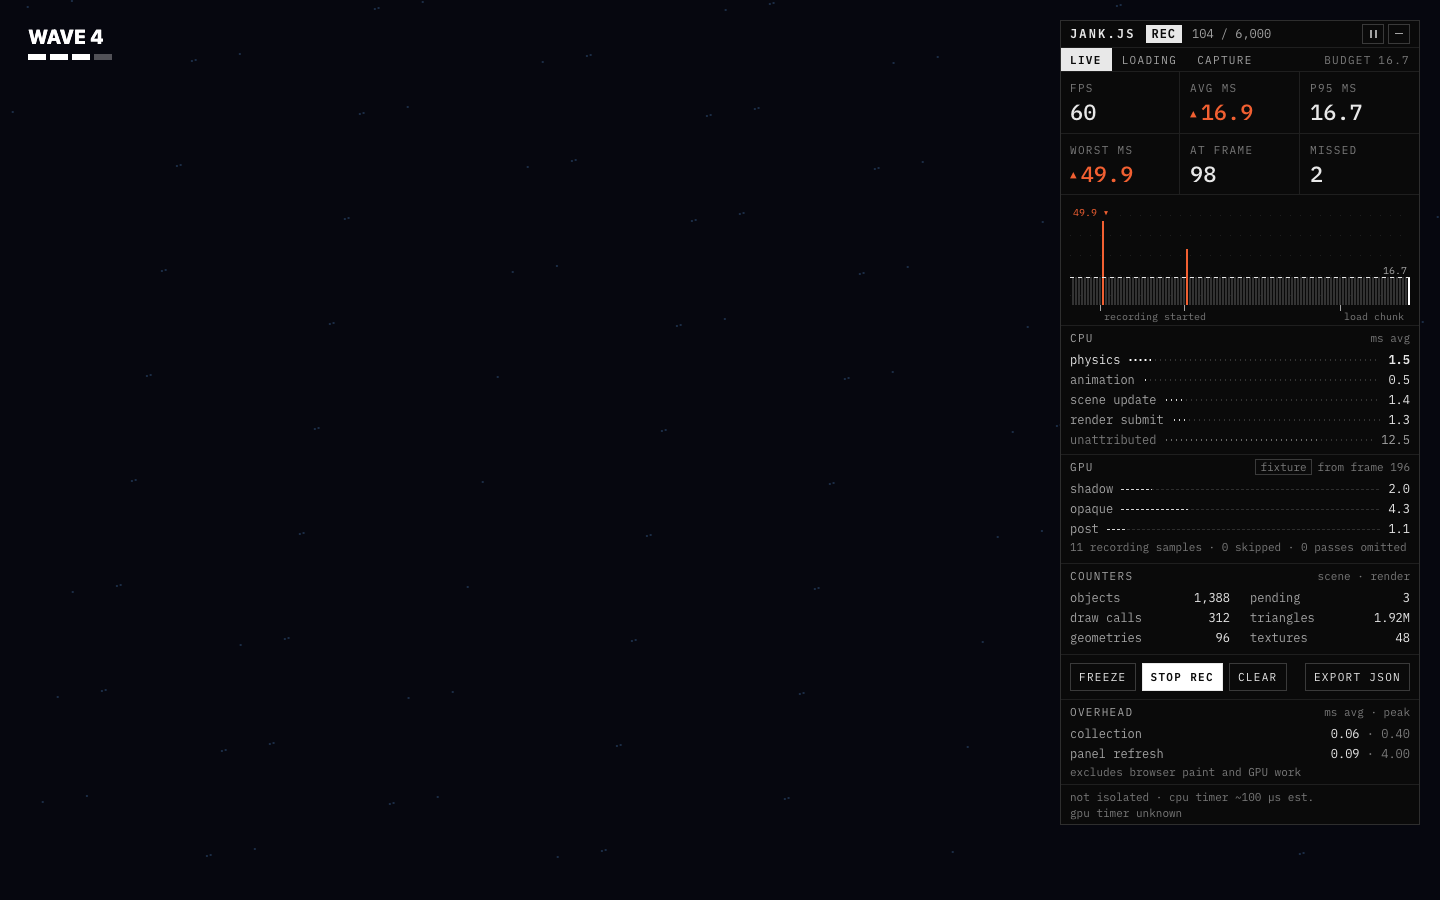
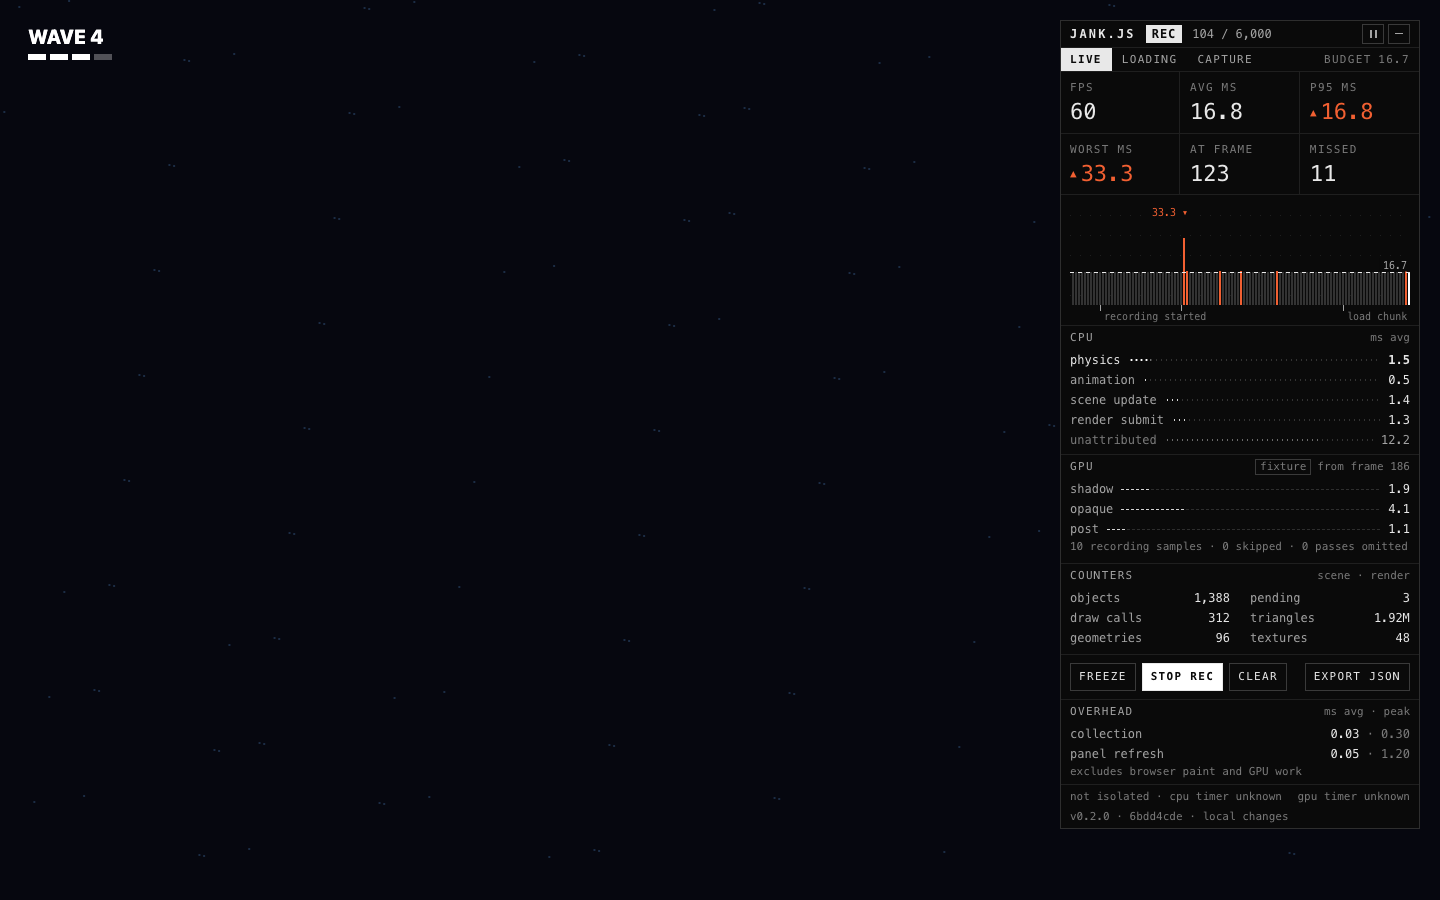
build: use system fonts and minify packaged CSS

diff --git a/src/performance/font.css b/src/performance/font.css
@@ -1,23 +1,2 @@
-/* IBM Plex Mono, Latin subset, the three weights the tool uses. Optional: without
-   this file the tool falls back to the platform monospace named in --jank-font. */
-@font-face {
-  font-family: "IBM Plex Mono";
-  src: url("./ui/ibm-plex-mono-400.woff2") format("woff2");
-  font-style: normal;
-  font-weight: 400;
-  font-display: swap;
-}
-@font-face {
-  font-family: "IBM Plex Mono";
-  src: url("./ui/ibm-plex-mono-500.woff2") format("woff2");
-  font-style: normal;
-  font-weight: 500;
-  font-display: swap;
-}
-@font-face {
-  font-family: "IBM Plex Mono";
-  src: url("./ui/ibm-plex-mono-600.woff2") format("woff2");
-  font-style: normal;
-  font-weight: 600;
-  font-display: swap;
-}
+/* Compatibility entry point. jank.js now uses system monospace fonts;
+   existing imports remain valid without downloading any font assets. */

diff --git a/src/performance/tokens.css b/src/performance/tokens.css
@@ -16,7 +16,7 @@
   --jank-miss: #f26032; /* over budget. nothing else. */
   --jank-row: #161616; /* the one highlighted row */
 
-  --jank-font: "IBM Plex Mono", ui-monospace, Menlo, Consolas, monospace;
+  --jank-font: ui-monospace, Menlo, Consolas, monospace;
   --jank-size-axis: 10px;
   --jank-size-label: 11px;
   --jank-size-body: 12px;

diff --git a/e2e/fixtures/game.html b/e2e/fixtures/game.html
@@ -5,7 +5,6 @@
     <meta name="viewport" content="width=device-width, initial-scale=1" />
     <title>jank.js fixture game</title>
     <link rel="stylesheet" href="./style.css" />
-    <link rel="stylesheet" href="./font.css" />
     <style>
       html,
       body {

diff --git a/src/viewer/viewer.css b/src/viewer/viewer.css
@@ -1,5 +1,4 @@
 @import "../performance/tokens.css";
-@import "../performance/font.css";
 
 /* jank.js viewer. The same flat system as the panel: hairlines, one mono face. */
 html.jank-viewer {

diff --git a/docs/integration.md b/docs/integration.md
@@ -158,20 +158,20 @@ The reported value is the **sum of render-pass durations** for one completed ren
 
 ## Appearance and theming
 
-Import `jank.js/style.css` for the panel. It is self-contained: every rule is scoped under `.jank` and sets the properties it needs (font, colours, box sizing, line height), so the host's CSS does not restyle the panel and the panel does not leak into the host. Import `jank.js/font.css` as well to load IBM Plex Mono (400, 500 and 600, Latin subset, about 45 KB); without it the panel uses the platform monospace.
+Import `jank.js/style.css` for the panel. It is self-contained: every rule is scoped under `.jank` and sets the properties it needs (font, colours, box sizing, line height), so the host's CSS does not restyle the panel and the panel does not leak into the host. The panel and offline viewer use system monospace fonts with no font downloads. Existing `jank.js/font.css` imports still resolve to an empty compatibility stylesheet and can be removed. Override `--jank-font` to use a host-provided font.
 
 The jank.js tokens are the theming surface. They are defined on `.jank` in `src/performance/tokens.css`, which `style.css` includes. Override any of them with a rule on `.jank` that loads after the stylesheet:
 
-| Token                                                                       | Default                                | Used for                                                    |
-| --------------------------------------------------------------------------- | -------------------------------------- | ----------------------------------------------------------- |
-| `--jank-ink`                                                                | `#0a0a0a`                              | Panel background                                            |
-| `--jank-line`, `--jank-line-strong`, `--jank-control`                       | greys                                  | Section rules, the panel outline and inputs, button borders |
-| `--jank-graph`, `--jank-faint`, `--jank-dim`, `--jank-muted`, `--jank-soft` | greys                                  | Bars, leaders, labels, secondary values, ghost series       |
-| `--jank-text`, `--jank-bright`                                              | `#e8e8e8`, `#fff`                      | Values, inverted controls, the newest frame                 |
-| `--jank-miss`                                                               | `#f26032`                              | Over budget, and nothing else                               |
-| `--jank-row`                                                                | `#161616`                              | The one highlighted row                                     |
-| `--jank-font`                                                               | IBM Plex Mono, then platform monospace | The only typeface                                           |
-| `--jank-panel-w`, `--jank-mini-w`, `--jank-line-h`, `--jank-inset`          | 360, 240, 28, 20 px                    | Sizes and the distance from the docked corner               |
+| Token                                                                       | Default             | Used for                                                    |
+| --------------------------------------------------------------------------- | ------------------- | ----------------------------------------------------------- |
+| `--jank-ink`                                                                | `#0a0a0a`           | Panel background                                            |
+| `--jank-line`, `--jank-line-strong`, `--jank-control`                       | greys               | Section rules, the panel outline and inputs, button borders |
+| `--jank-graph`, `--jank-faint`, `--jank-dim`, `--jank-muted`, `--jank-soft` | greys               | Bars, leaders, labels, secondary values, ghost series       |
+| `--jank-text`, `--jank-bright`                                              | `#e8e8e8`, `#fff`   | Values, inverted controls, the newest frame                 |
+| `--jank-miss`                                                               | `#f26032`           | Over budget, and nothing else                               |
+| `--jank-row`                                                                | `#161616`           | The one highlighted row                                     |
+| `--jank-font`                                                               | Platform monospace  | The only typeface                                           |
+| `--jank-panel-w`, `--jank-mini-w`, `--jank-line-h`, `--jank-inset`          | 360, 240, 28, 20 px | Sizes and the distance from the docked corner               |
 
 Text sizes, tracking, padding and control heights have tokens too; see `tokens.css`. Set `--jank-z-index` on the container to change the panel's stacking order (default 30). Dark is the only theme: the panel is a measuring instrument, and orange keeps one meaning.
 

diff --git a/THIRD_PARTY_NOTICES.md b/THIRD_PARTY_NOTICES.md
@@ -4,7 +4,7 @@ jank.js is MIT licensed, copyright 2026 Isaac Johnson. The initial monitor and d
 
 Earlier panel styling was derived from shadcn/ui (MIT, copyright 2023 shadcn). Its notice is retained in `licenses/shadcn-ui.txt` for historical attribution; the current styling is original and uses native HTML with no React runtime dependency.
 
-IBM Plex Mono is copyright 2017 IBM Corp. and licensed under SIL Open Font License 1.1. The original license and reserved font name are preserved in `licenses/ibm-plex-mono-OFL.txt`. The optional `jank.js/font.css` ships 400, 500 and 600 weights as Latin-subset WOFF2 files, as distributed by `@fontsource/ibm-plex-mono` 5.2.7. Without the optional stylesheet the panel uses the platform monospace. The offline viewer embeds these fonts.
+IBM Plex Mono is copyright 2017 IBM Corp. and licensed under SIL Open Font License 1.1. The original license and reserved font name are preserved in `licenses/ibm-plex-mono-OFL.txt`. Earlier distributions bundled the 400, 500 and 600 Latin-subset WOFF2 weights from `@fontsource/ibm-plex-mono` 5.2.7. The license is retained for historical attribution. The panel and offline viewer now use system monospace fonts and ship no font binaries. The `jank.js/font.css` export remains as an empty compatibility stylesheet.
 
 The original extraction included React and React DOM. Their notices remain in `licenses/` for historical attribution; neither is included in the current runtime bundle.
 

diff --git a/README.md b/README.md
@@ -91,7 +91,6 @@ Use a positioned container, import the stylesheet, and call `refresh` from your 
 ```js
 import { createDiagnostics, createPerformanceTray } from "jank.js";
 import "jank.js/style.css";
-// Optional: import "jank.js/font.css";
 
 const shell = document.querySelector("#app"); // CSS: position: relative
 const monitor = createDiagnostics();
@@ -212,6 +211,6 @@ Read [CONTRIBUTING.md](CONTRIBUTING.md), the [release guide](docs/releasing.md),
   ·:·  EOF  ·:·
 ```
 
-MIT licensed, copyright Isaac Johnson. Extracted from Junklab Engine 0.94.1 (d6f5036), with independent packaging and a generic API. [Third-party notices](THIRD_PARTY_NOTICES.md) cover the derived control styling and the optional IBM Plex Mono font.
+MIT licensed, copyright Isaac Johnson. Extracted from Junklab Engine 0.94.1 (d6f5036), with independent packaging and a generic API. [Third-party notices](THIRD_PARTY_NOTICES.md) cover derived styling and historical dependencies. The panel and viewer use system monospace fonts.
 
 Made by [Isaac Johnson](https://github.com/zackabrah) at Junklab, Australia.

diff --git a/docs/performance.md b/docs/performance.md
@@ -34,4 +34,4 @@ The first v1 measurement identified live snapshot copying as a cost worth reduci
 
 Run `pnpm bench` to produce `artifacts/overhead.json`, or `pnpm bench docs/verification/overhead.json` to refresh the [current raw report](verification/overhead.json). Run on an otherwise idle machine and compare equivalent workloads. More systems, scopes, custom views, DevTools recording and real GPU providers can cost more.
 
-The library ships unminified ESM for downstream bundling. The optional IBM Plex Mono font contains three Latin-subset WOFF2 files, embedded in the offline viewer. The core has zero runtime dependencies; application and renderer bundle sizes are outside these measurements.
+The library ships minified ESM with internal identifier mangling and source maps for downstream bundling and debugging. Packaged panel CSS is minified. The panel and offline viewer use system monospace fonts; no font files are bundled. The core has zero runtime dependencies; application and renderer bundle sizes are outside these measurements.

diff --git a/docs/releasing.md b/docs/releasing.md
@@ -22,4 +22,4 @@ Update CHANGELOG.md and the version, commit verified changes, then tag and publi
 
 ## Testing a build in another project
 
-Build and pack this repository, then install the archive in the other project with `pnpm add /path/to/jank.js-0.1.0.tgz`. Import `jank.js`, `jank.js/style.css`, optional `jank.js/font.css` and adapters through their public exports, and copy `jank.js/viewer.html` to the project’s static viewer route. Do not import from this repository’s `src` tree. After publication, replace the archive dependency with a pinned published version.
+Build and pack this repository, then install the archive in the other project with `pnpm add /path/to/jank.js-0.1.0.tgz`. Import `jank.js`, `jank.js/style.css` and adapters through their public exports, and copy `jank.js/viewer.html` to the project’s static viewer route. Do not import from this repository’s `src` tree. After publication, replace the archive dependency with a pinned published version.

diff --git a/CHANGELOG.md b/CHANGELOG.md
@@ -1,5 +1,10 @@
 # Changelog
 
+## Unreleased
+
+- Use system monospace fonts in the panel and offline viewer, removing bundled font downloads. The `jank.js/font.css` export remains as an empty compatibility stylesheet.
+- Minify packaged panel CSS while retaining the `--jank-*` theming properties.
+
 ## 0.1.0 — Unreleased
 
 Initial public release.
